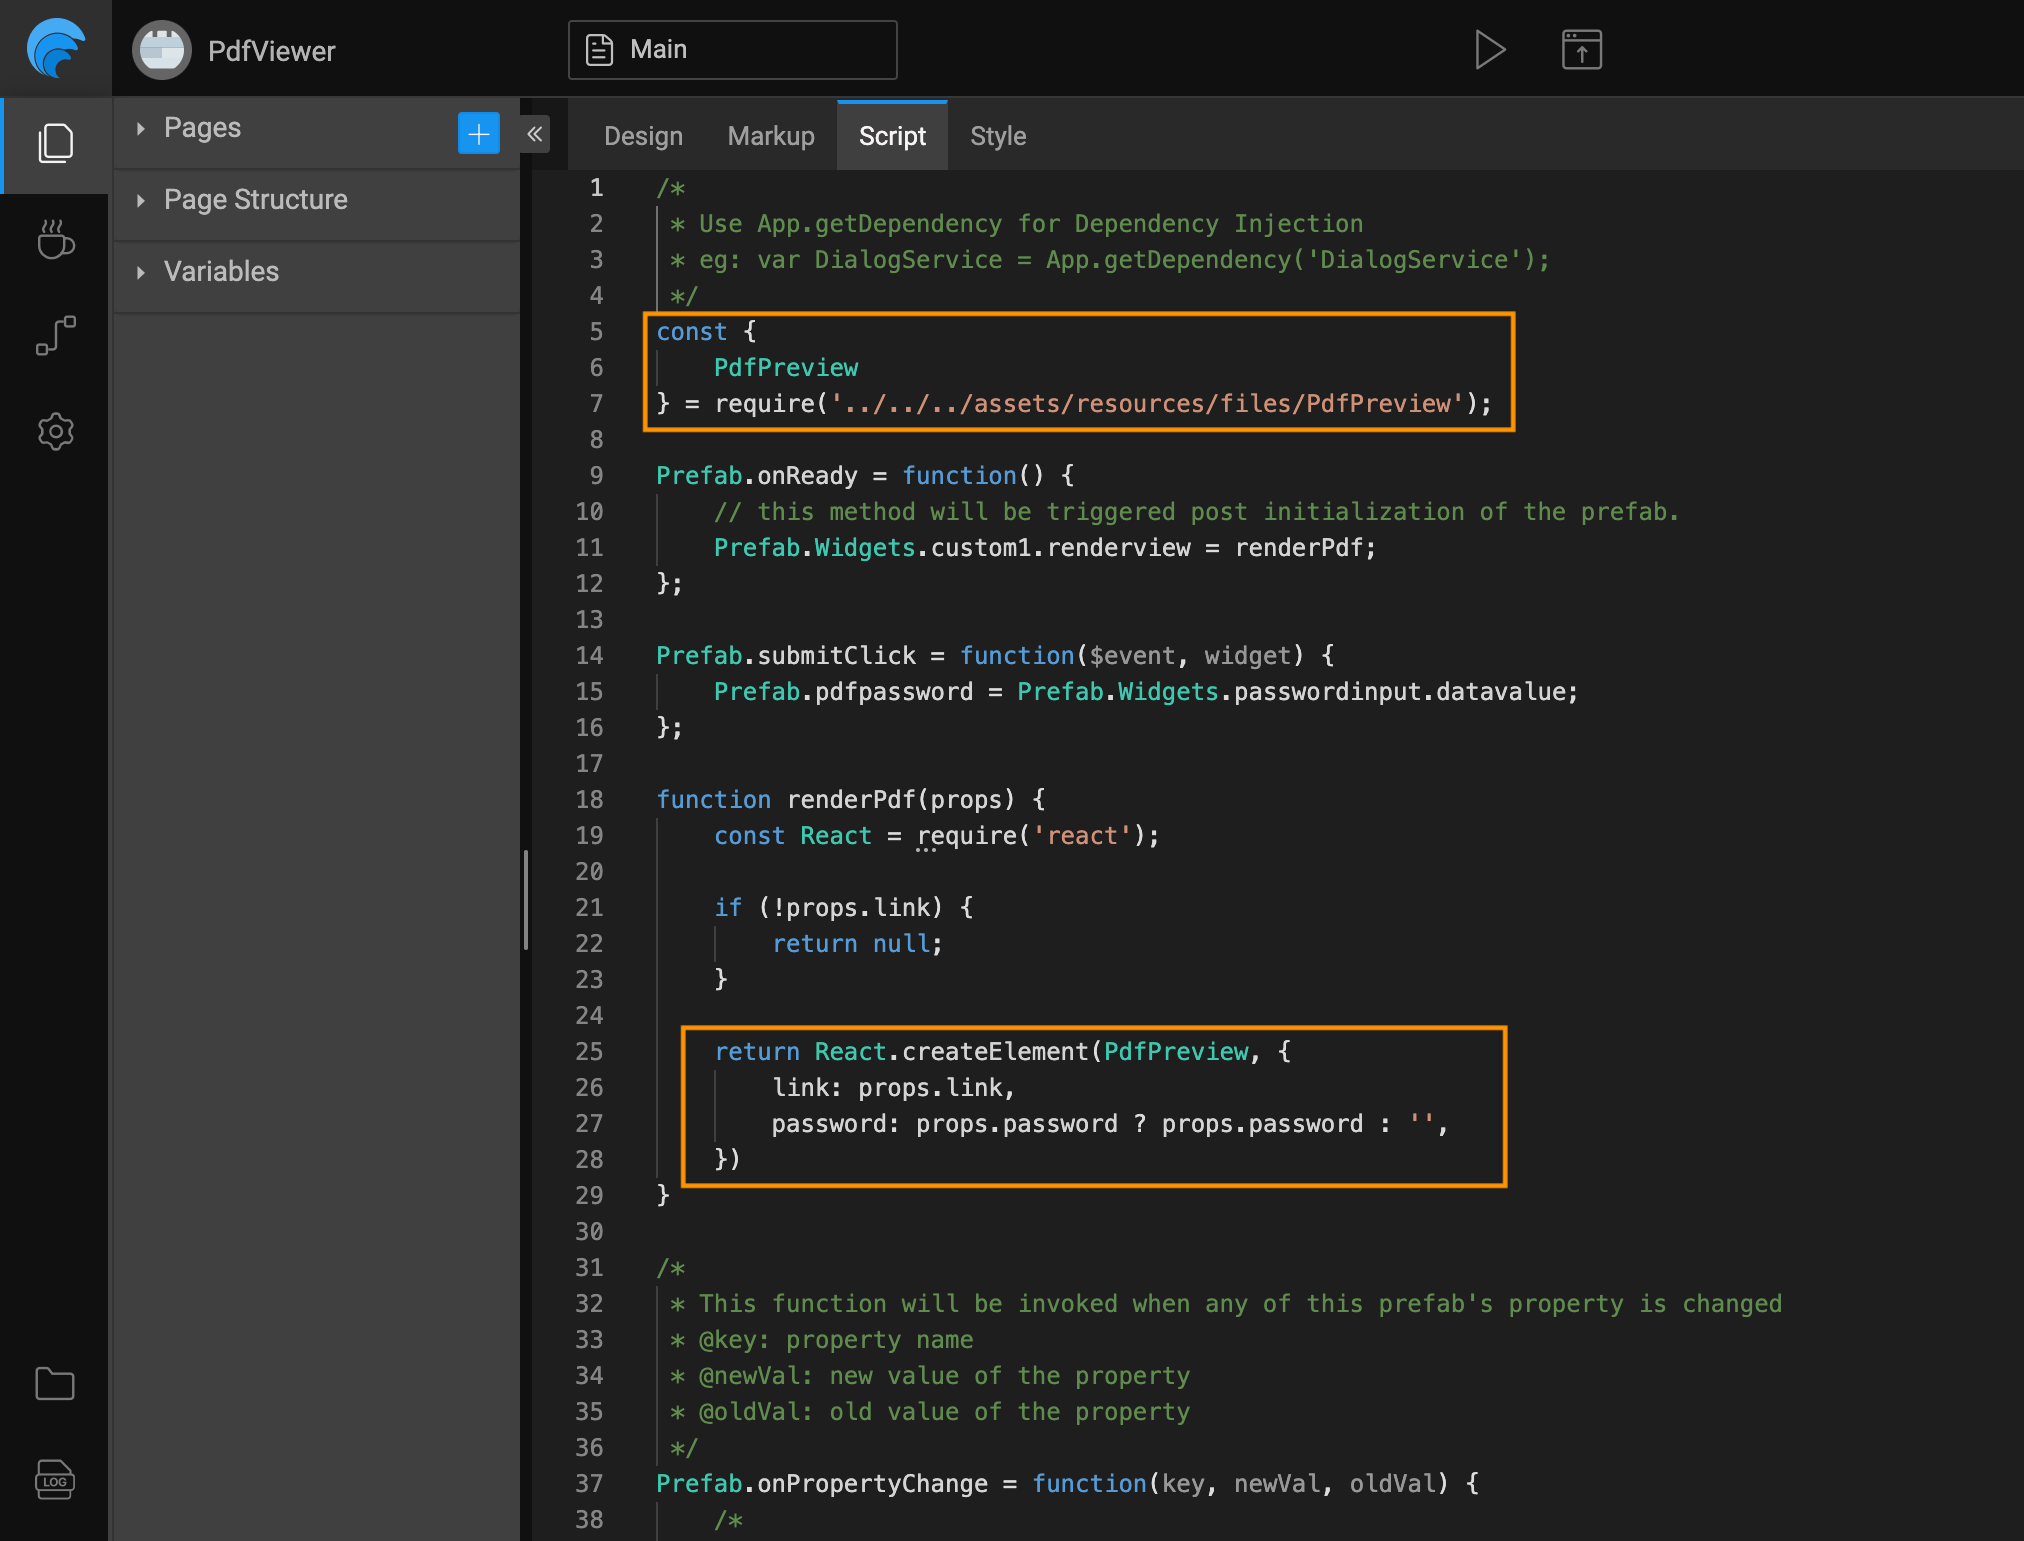
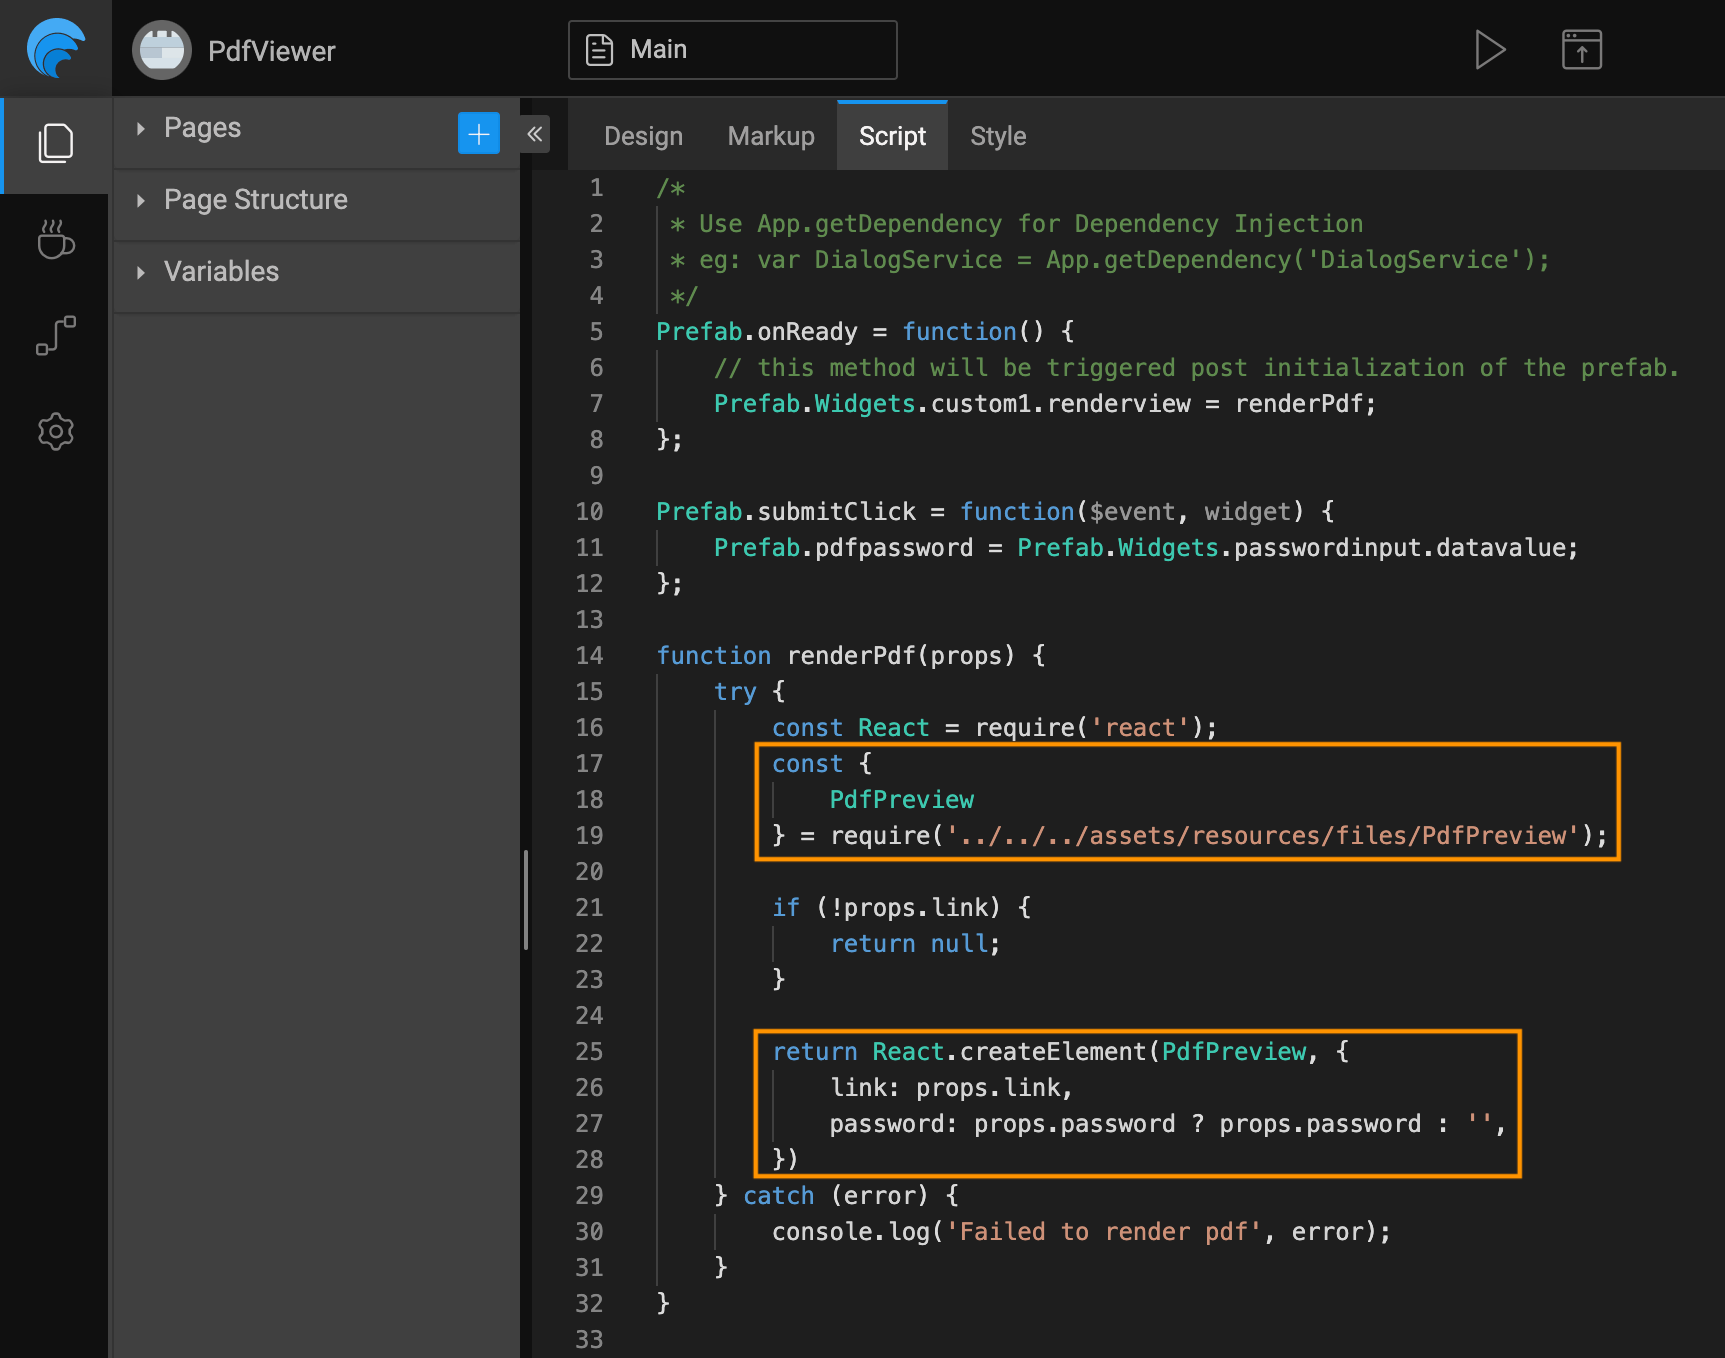
Feat: updated docs with .web.js file, added project's markup, updated screenshots

diff --git a/learn/react-native/pdf-preview-and-download.md b/learn/react-native/pdf-preview-and-download.md
@@ -16,6 +16,7 @@ import DialogBox from '/learn/assets/password-dialog-box.png'
 import Password from '/learn/assets/add-password-expression.png'
 import ImplementPrefab from '/learn/assets/implement-prefab-to-project.png'
 import PdfPreviewNative from '/learn/assets/PdfPreview_native_module.png'
+import PdfPreviewWeb from '/learn/assets/PdfPreview_web_module.png'
 import PdfPreviewPrefab from '/learn/assets/PdfPreview_prefab_script.png'
 
 Viewing PDFs without leaving the mobile app offers ability for developers to keep their users in the app's context. It is possible to let PDF file download to the phone and have the user open it using a different app. That may not be best user experience for an app. Not all users may know how to locate and open the PDF file in a different app. 
@@ -69,7 +70,7 @@ On creating prefab we configure it through the following simple steps.
 
 <img src={BindProperties} style={{width:"35%"}} />
 
-Here's the final Markup for the prefab.
+Here's the final **Markup** for the prefab.
 ```html
 <wm-prefab-container name="prefab_container1">
     <wm-custom name="custom1" linkparam="bind:Variables.link.dataSet.dataValue" passwordparam="bind:Variables.pdfpassword.dataSet.dataValue"></wm-custom>
@@ -122,15 +123,31 @@ module.exports = {
 }
 ```
 
-<img src={PdfPreviewNative} style={{width:"100%"}} /><br/><br/>
+```javascript
+// resources/files/PdfPreview.web.js
+function PdfPreview(props) {
+    const React = require("react");
+    const RN = require('react-native');
+    const {View, Text} = RN;
+
+    return (
+        <View>
+            <Text>Pdf Preview is not supported on web</Text>
+        </View>
+    );
+}
+
+module.exports = {
+    PdfPreview,
+}
+```
+
+<img src={PdfPreviewNative} style={{width:"100%"}} />
+<img src={PdfPreviewWeb} style={{width:"100%"}} /><br/><br/>
 
 3. Import PdfPreview module in Prefab's Main **Script** and pass appropriate props to show pdf on the native mobile platform.
 
 ```javascript
-const {
-    PdfPreview
-} = require('../../../assets/resources/files/PdfPreview');
-
 Prefab.onReady = function() {
     Prefab.date = new Date();
     if (Prefab.Widgets.custom1) {
@@ -143,16 +160,23 @@ Prefab.submitClick = function($event, widget) {
 };
 
 function renderPdf(props) {
-    const React = require('react');
+    try {
+        const React = require('react');
+        const {
+            PdfPreview
+        } = require('../../../assets/resources/files/PdfPreview');
 
-    if (!props.link) {
-        return null;
+        if (!props.link) {
+            return null;
+        }
+
+        return React.createElement(PdfPreview, {
+            link: props.link,
+            password: props.password ? props.password : '',
+        })
+    } catch (error) {
+        console.log('Failed to render pdf', error);
     }
-
-    return React.createElement(PdfPreview, {
-        link: props.link,
-        password: props.password ? props.password : '',
-    })
 }
 ```
 
@@ -162,7 +186,31 @@ function renderPdf(props) {
 
 To implement Prefab to the project, expand Prefab tab in sidebar and select your custom prefab and drag n drop to the design box
 
-<img src={ImplementPrefab} style={{width:"100%"}} />
+<img src={ImplementPrefab} style={{width:"100%"}} /><br/><br/>
+
+Here's the **Markup** for the project.
+
+```html
+<wm-page name="mainpage">
+    <wm-left-panel content="leftnav" name="left_panel1"></wm-left-panel>
+    <wm-mobile-navbar name="mobile_navbar1" title="Pdf Preview" backbutton="false">
+        <wm-anchor caption="" name="AddLink" iconclass="wi wi-gear"></wm-anchor>
+    </wm-mobile-navbar>
+    <wm-content name="content1">
+        <wm-page-content columnwidth="12" name="page_content1">
+            <wm-composite name="composite1" captionposition="floating">
+                <wm-label class="col-xs-4 control-label" name="label1" caption="Enter PDF link"></wm-label>
+                <wm-container class="col-xs-8" name="container1" width="100%">
+                    <wm-text name="pdfUrl" datavalue="bind:Variables.link.dataSet.dataValue"></wm-text>
+                </wm-container>
+            </wm-composite>
+            <wm-button class="btn-primary" caption="Download Pdf" type="button" name="button1" on-tap="button1Tap($event, widget)" margin="10px unset" fontsize="12"></wm-button>
+            <wm-prefab prefabname="PdfViewer" name="PdfViewer2"></wm-prefab>
+        </wm-page-content>
+    </wm-content>
+    <wm-mobile-tabbar name="mobile_tabbar1"></wm-mobile-tabbar>
+</wm-page>
+```
 
 ## Downloading PDFs in a WaveMaker App
 
